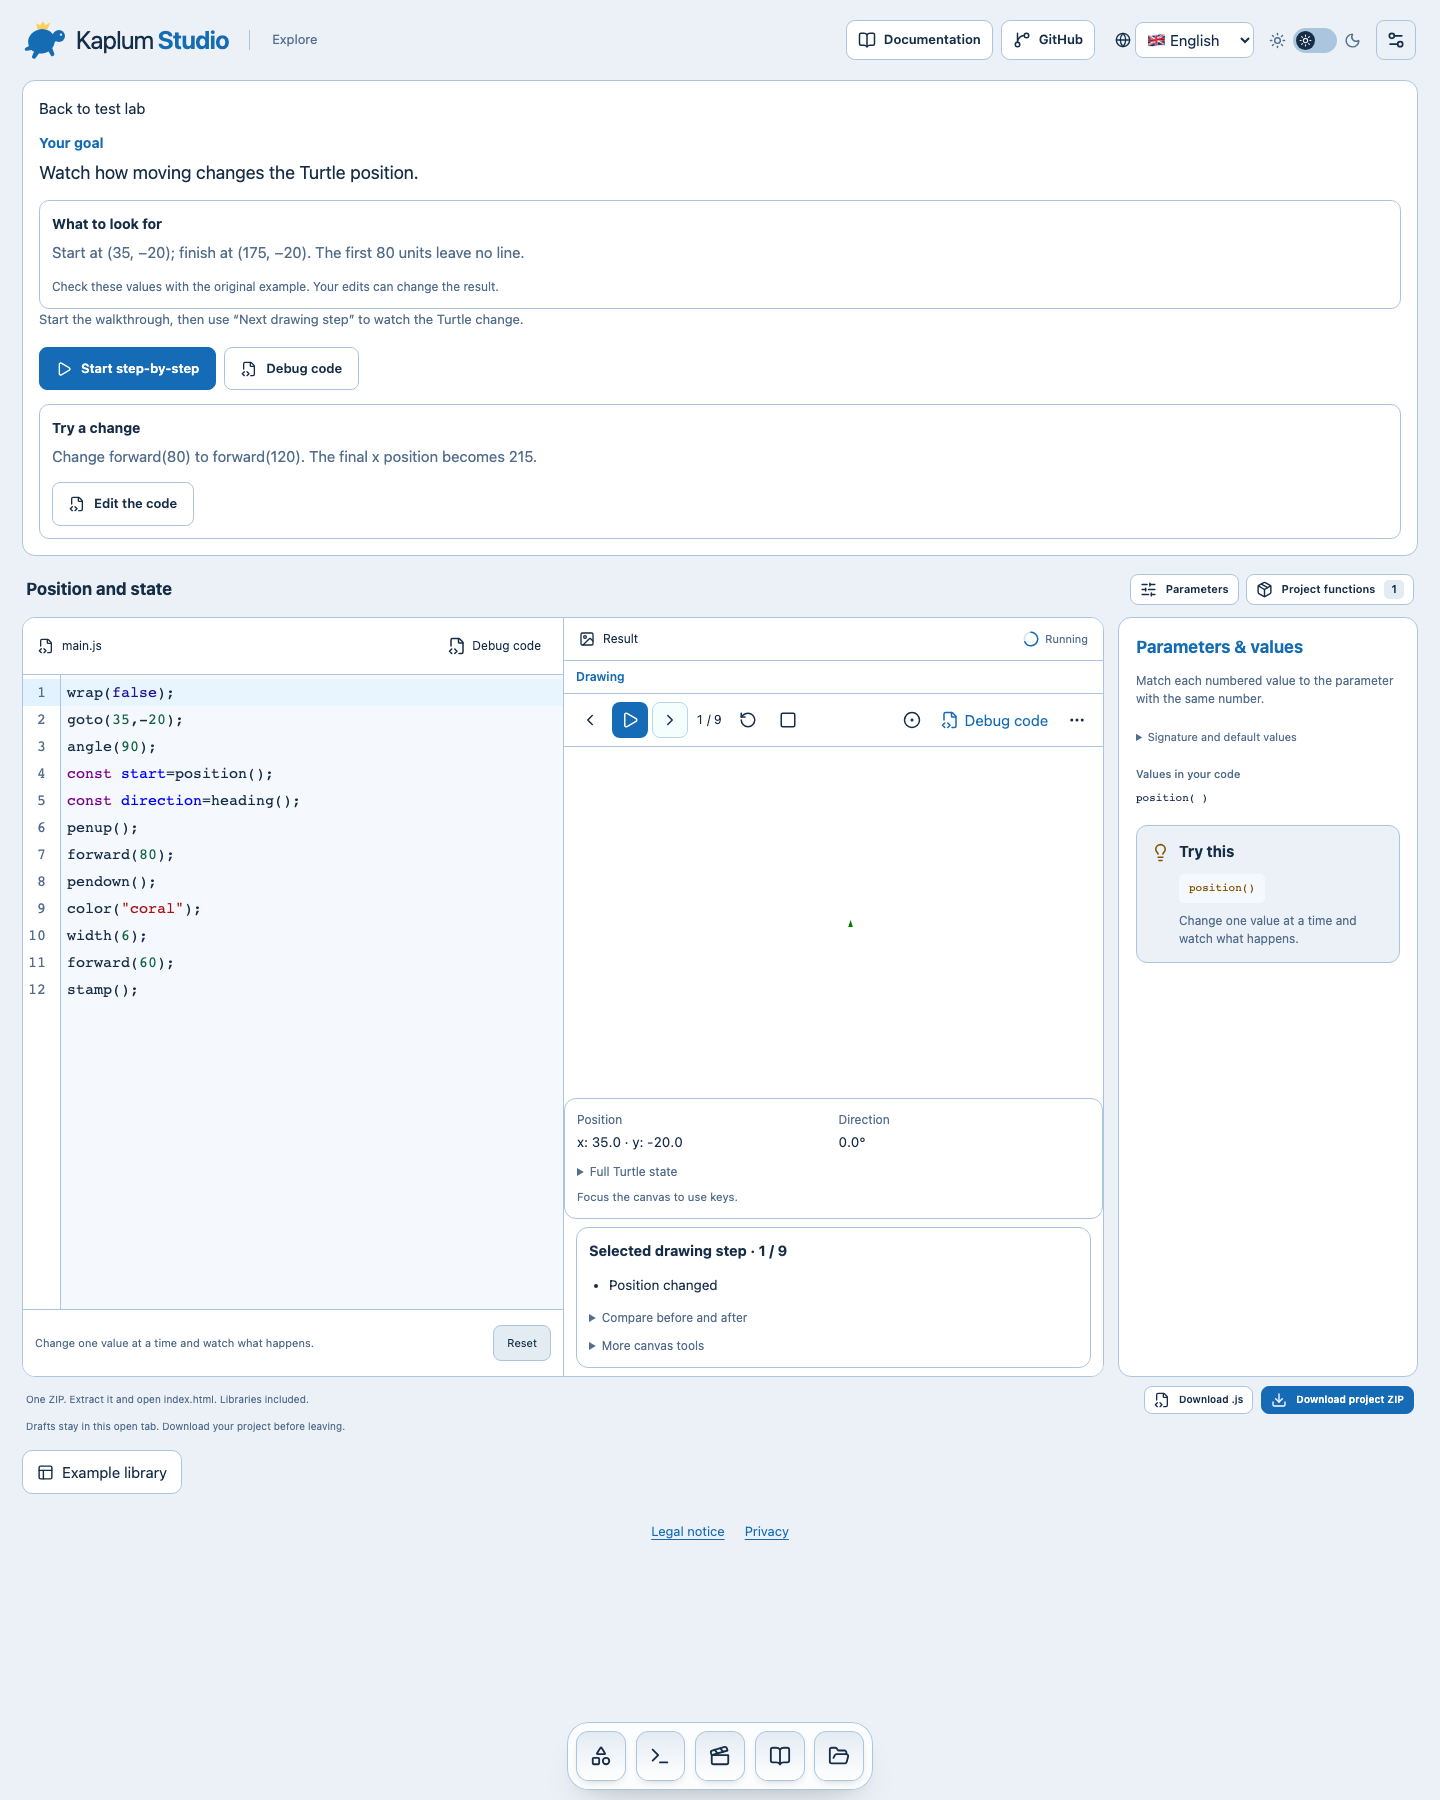
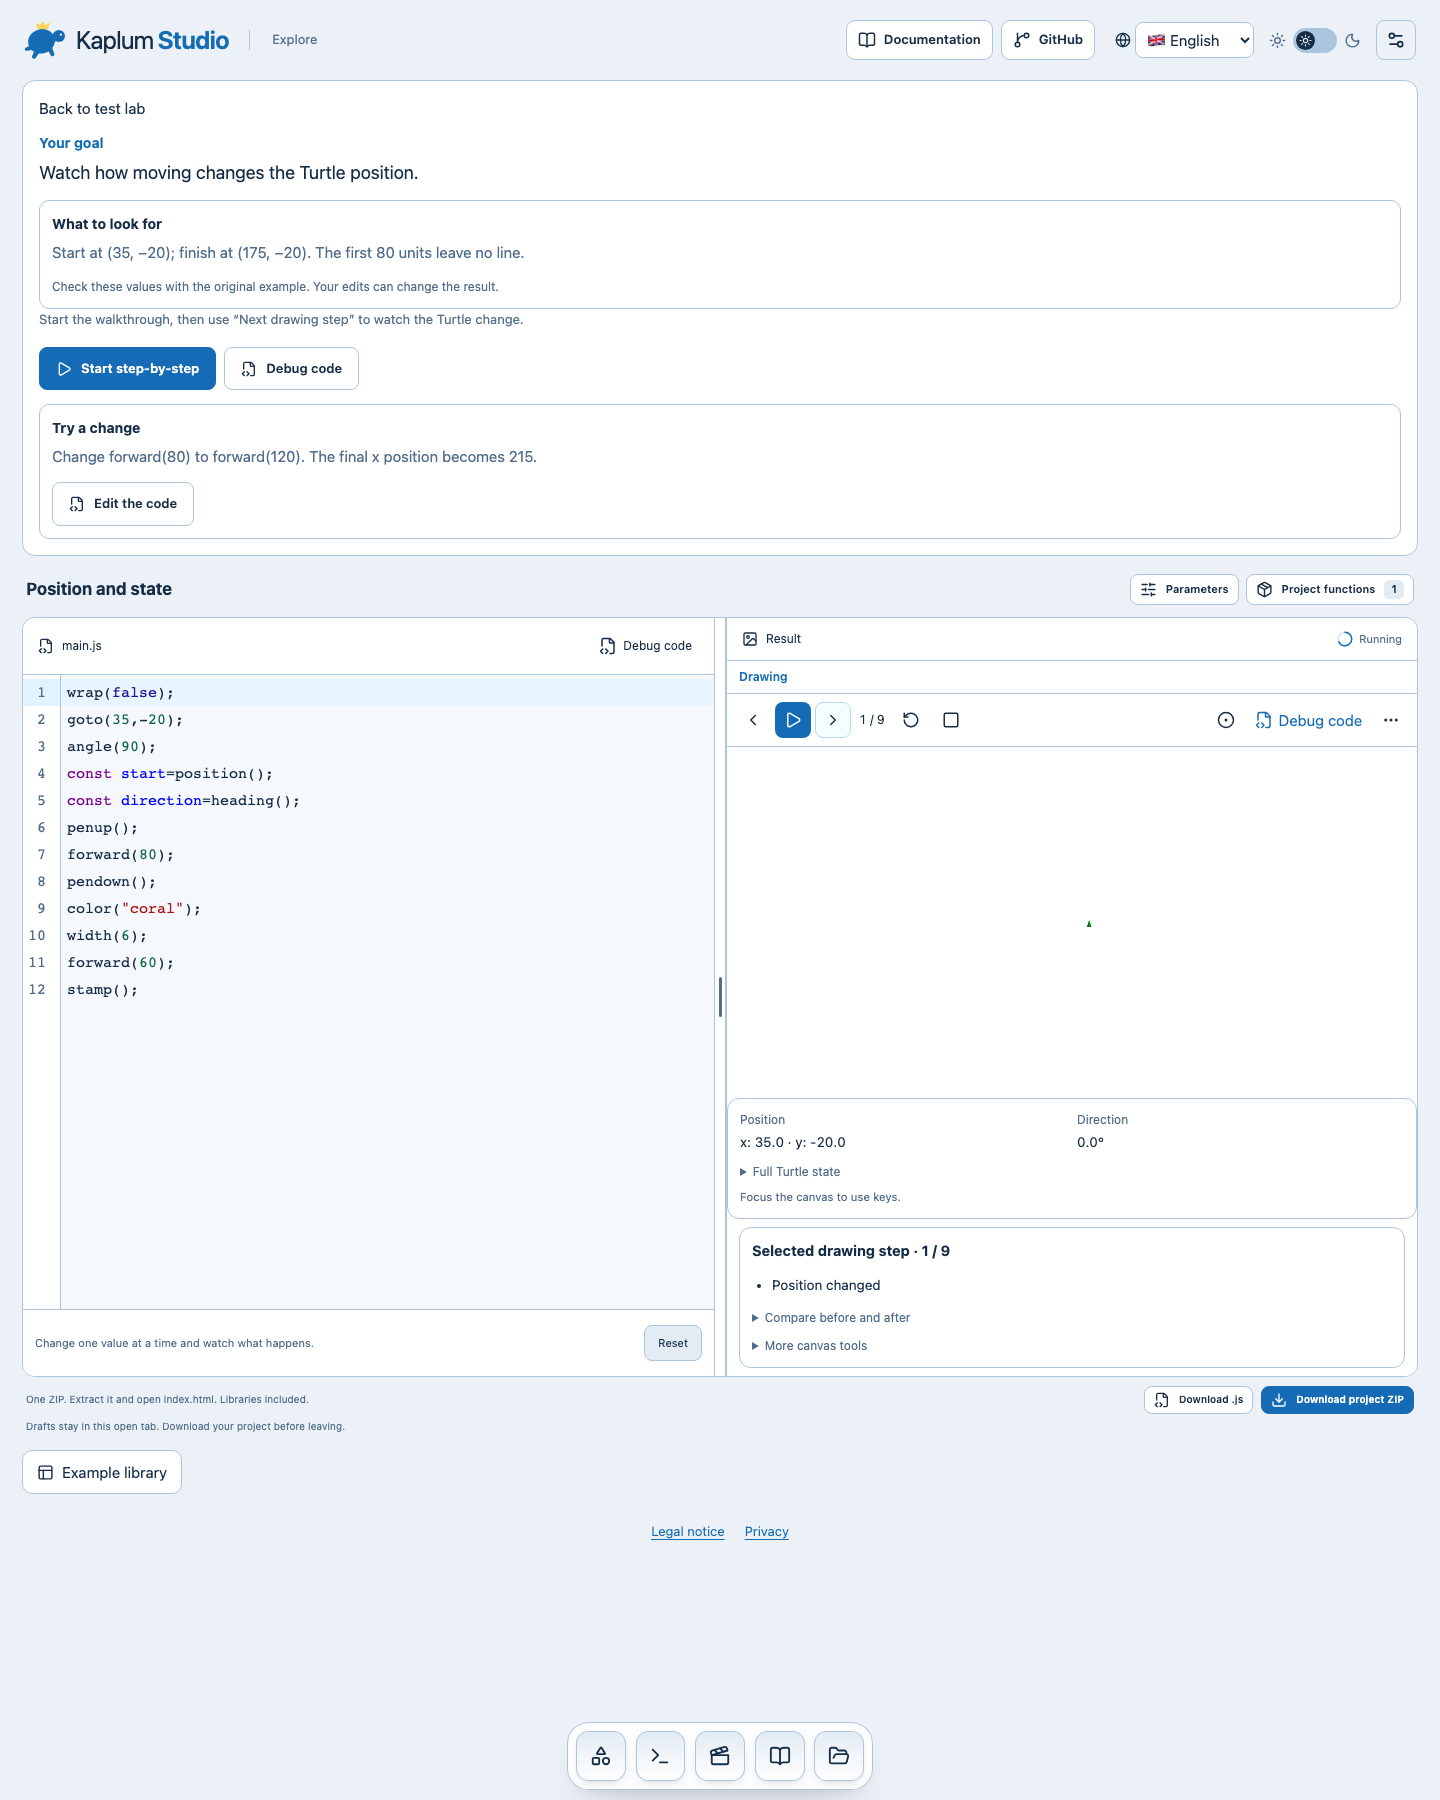
feat: resize code and canvas with collapsed parameters below

diff --git a/components/Workspace.jsx b/components/Workspace.jsx
@@ -79,12 +79,24 @@ export default function Workspace({ route, preferences, t, drafts }) {
         : findEntry(source, reference);
   const [status, setStatus] = useState({ type: "ready" }),
     [panel, setPanel] = useState("code"),
-    [inspector, setInspector] = useState(true),
+    [inspector, setInspector] = useState(false),
     [liveCode, setLiveCode] = useState(initial),
     [exporting, setExporting] = useState(false),
     [exportError, setExportError] = useState(""),
     [showVault, setShowVault] = useState(false),
     [selected, setSelected] = useState(new Set(entry ? [entry.name] : []));
+  const [split, setSplit] = useState(50);
+  function resizeSplit(event) {
+    if (!event.currentTarget.hasPointerCapture(event.pointerId)) return;
+    const rect = event.currentTarget.parentElement.getBoundingClientRect();
+    setSplit(Math.max(25, Math.min(75, Math.round((event.clientX - rect.left) / rect.width * 100))));
+  }
+  function resizeSplitKey(event) {
+    const values = { ArrowLeft: split - 5, ArrowRight: split + 5, Home: 25, End: 75 };
+    if (!(event.key in values)) return;
+    event.preventDefault();
+    setSplit(Math.max(25, Math.min(75, values[event.key])));
+  }
   const locale = preferences.locale;
   const labels = capabilityLabels[locale];
   const tools = canvasToolCopy[locale];
@@ -288,7 +300,7 @@ export default function Workspace({ route, preferences, t, drafts }) {
         data-inspector={inspector}
         data-debug={!!debug}
       >
-        <div className="workbench">
+        <div className="workbench" style={{ "--workspace-columns": `minmax(0, ${split}fr) 12px minmax(0, ${100 - split}fr)` }}>
           <section className="code-pane">
             <div className="pane-header">
               <span>
@@ -324,6 +336,21 @@ export default function Workspace({ route, preferences, t, drafts }) {
               </button>
             </div>
           </section>
+          <div
+            className="workspace-divider"
+            role="separator"
+            aria-label={`${t("code")} / ${t("result")}`}
+            aria-orientation="vertical"
+            aria-valuemin={25}
+            aria-valuemax={75}
+            aria-valuenow={split}
+            tabIndex={0}
+            onPointerDown={event => { event.preventDefault(); event.currentTarget.setPointerCapture(event.pointerId); }}
+            onPointerMove={resizeSplit}
+            onPointerUp={event => { if (event.currentTarget.hasPointerCapture(event.pointerId)) event.currentTarget.releasePointerCapture(event.pointerId); }}
+            onKeyDown={resizeSplitKey}
+            onDoubleClick={() => setSplit(50)}
+          />
           <section className="result-pane">
             <div className="pane-header">
               <span>

diff --git a/tests/workspace-layout.spec.js b/tests/workspace-layout.spec.js
@@ -24,14 +24,44 @@ for (const width of [390, 850, 1073, 1536]) {
   });
 }
 
-test('parameters can be hidden on intermediate desktop widths', async ({ page }) => {
+test('parameters are collapsed by default and open below the workspace', async ({ page }) => {
   await page.setViewportSize({ width: 1073, height: 766 });
   await page.goto('/#animation/circle');
   const inspector = page.locator('.explanation-pane');
-  await expect(inspector).toBeVisible();
+  await expect(inspector).toBeHidden();
   const before = await page.locator('.workbench').boundingBox();
   await page.getByRole('button', { name: 'Parameters', exact: true }).click();
-  await expect(inspector).toBeHidden();
+  await expect(inspector).toBeVisible();
   const after = await page.locator('.workbench').boundingBox();
-  expect(after.width).toBeGreaterThan(before.width + 150);
+  const parameters = await inspector.boundingBox();
+  expect(after.width).toBeCloseTo(before.width, 0);
+  expect(parameters.y).toBeGreaterThanOrEqual(after.y + after.height);
+});
+
+test('split divider responds to drag, keyboard, reset and debug mode without editing code', async ({ page }) => {
+  await page.setViewportSize({ width: 1073, height: 766 });
+  await page.goto('/#figure/figur-dino');
+  const original = await page.locator('#code').innerText();
+  const divider = page.getByRole('separator');
+  const before = await page.locator('.code-pane').boundingBox();
+  const handle = await divider.boundingBox();
+  await page.mouse.move(handle.x + handle.width / 2, handle.y + 80);
+  await page.mouse.down();
+  await page.mouse.move(handle.x + 140, handle.y + 80);
+  await page.mouse.up();
+  expect((await page.locator('.code-pane').boundingBox()).width).toBeGreaterThan(before.width + 100);
+  await divider.focus();
+  await divider.press('Home');
+  await expect(divider).toHaveAttribute('aria-valuenow', '25');
+  await divider.press('End');
+  await expect(divider).toHaveAttribute('aria-valuenow', '75');
+  expect(await page.evaluate(() => document.documentElement.scrollWidth <= innerWidth + 1)).toBe(true);
+  await divider.dblclick();
+  await expect(divider).toHaveAttribute('aria-valuenow', '50');
+  await page.locator('.editor-debug-start').click();
+  await divider.press('ArrowLeft');
+  await expect(divider).toHaveAttribute('aria-valuenow', '45');
+  expect(await page.locator('#code').innerText()).toBe(original);
+  await page.setViewportSize({ width: 390, height: 844 });
+  await expect(divider).toBeHidden();
 });

diff --git a/tests/studio.spec.js b/tests/studio.spec.js
@@ -358,9 +358,9 @@ test("Dock links keep deep links, active destination and drafts across navigatio
   await expect(page.locator("#code")).toContainText("120");
   const toggle = page.getByRole("button", { name: "Parameters", exact: true });
   await toggle.click();
-  await expect(page.locator("#parameter-inspector")).not.toBeVisible();
-  await toggle.click();
   await expect(page.locator("#parameter-inspector")).toBeVisible();
+  await toggle.click();
+  await expect(page.locator("#parameter-inspector")).not.toBeVisible();
 });
 
 test("Original Dock labels appear only on hover or focus with one active indicator", async ({ page }) => {
@@ -437,12 +437,12 @@ test("Atlas gives the workspace full width with an optional library below", asyn
   await expect(page.locator(".atlas-library")).toBeHidden();
   const code = await page.locator(".code-pane").boundingBox();
   const result = await page.locator(".result-pane").boundingBox();
-  const inspector = await page.locator("#parameter-inspector").boundingBox();
+  await expect(page.locator("#parameter-inspector")).toBeHidden();
   const dock = await page.locator(".studio-dock").boundingBox();
   expect(code.x).toBeLessThan(50);
   expect(code.x + code.width).toBeLessThanOrEqual(result.x + 1);
   expect(Math.abs(code.y - result.y)).toBeLessThan(2);
-  expect(result.x + result.width).toBeLessThan(inspector.x);
+
   expect(result.y + result.height).toBeLessThanOrEqual(1024);
   expect(dock.width).toBeLessThan(400);
   expect(
@@ -487,6 +487,7 @@ test("Dino parameter fields change only the displayed call on explicit apply", a
   const original =
     'hideTurtle();\n// keep my notes\nforward(10);\ndrawDino(80, "LimeGreen", 25);\nright(90);';
   await pasteCode(page,original);
+  await page.getByRole("button", {name:"Parameters",exact:true}).click();
   await page.getByLabel("size", { exact: true }).fill("120");
   expect(await page.locator("#code").innerText()).toBe(original);
   await page.getByRole("button", { name: "Apply & run", exact: true }).click();

diff --git a/app/atlas.css b/app/atlas.css
@@ -1214,3 +1214,30 @@ header .release-links a {
   .workspace-panels[data-inspector="false"] { grid-template-columns: minmax(0, 1fr); }
   .workspace-panels[data-inspector="false"] .explanation-pane { display: none; }
 }
+
+
+/* The optional parameter section follows the drawing; it never takes a third column. */
+.workspace-divider { display: none; }
+@media (min-width: 701px) {
+  .workspace-panels { display: flex; flex-direction: column; }
+  .workspace-panels .workbench { flex-shrink: 0; }
+  .workspace-panels .explanation-pane { grid-column: auto; width: 100%; }
+  .workspace-panels:not([data-debug="true"]) .explanation-pane { max-height: none; }
+  .workspace-panels[data-inspector="false"] .explanation-pane { display: none; }
+  .workspace-panels:not([data-debug="true"]) .workbench,
+  .workspace-panels[data-debug="true"] .workbench { grid-template-columns: var(--workspace-columns); }
+  .workspace-divider {
+    display: flex;
+    align-items: center;
+    justify-content: center;
+    cursor: col-resize;
+    touch-action: none;
+    background: var(--surface);
+    border-inline: 1px solid var(--line);
+    align-self: stretch;
+    min-height: 100%;
+  }
+  .workspace-divider::after { content: ""; width: 3px; height: 40px; border-radius: 2px; background: var(--muted); }
+  .workspace-divider:hover::after, .workspace-divider:focus-visible::after { background: var(--accent); }
+  .workspace-divider:focus-visible { outline: 2px solid var(--accent); outline-offset: -2px; }
+}

diff --git a/docs/source-debugger.md b/docs/source-debugger.md
@@ -49,4 +49,8 @@ The workspace uses the full available width. Example library is a collapsed sect
 
 ## Workspace sizing
 
-Normal desktop editing places source and drawing side by side and reserves enough height for both rather than shrinking them to fit exports or teaching text into one viewport. The workspace scrolls to reach additional controls. Parameter visibility works from 901px upward; mobile keeps the existing Code/Result/Explanation tabs. Dock clearance is reserved once at the end of the content, not as a large gap after the export controls.
+Normal desktop editing places source and drawing side by side and reserves enough height for both rather than shrinking them to fit exports or teaching text into one viewport. The workspace scrolls to reach additional controls. Parameter visibility works from 701px upward; mobile keeps the existing Code/Result/Explanation tabs. Dock clearance is reserved once at the end of the content, not as a large gap after the export controls.
+
+## Adjustable split
+
+On desktop, drag the separator between code and drawing to allocate 25–75% of the workspace to code. The same split applies in normal and debug mode. Keyboard users can focus the separator and use Left/Right in 5% steps, Home/End for the limits; double-click resets to 50/50. This is local view state and does not modify source or exports. Parameters start collapsed and open below the workspace, preserving its width. Mobile retains panel tabs and hides the divider.
